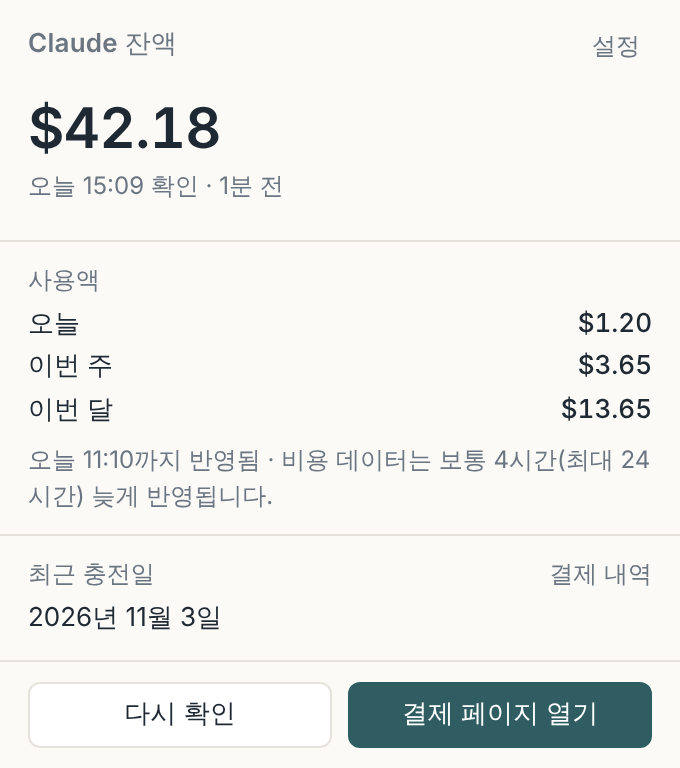
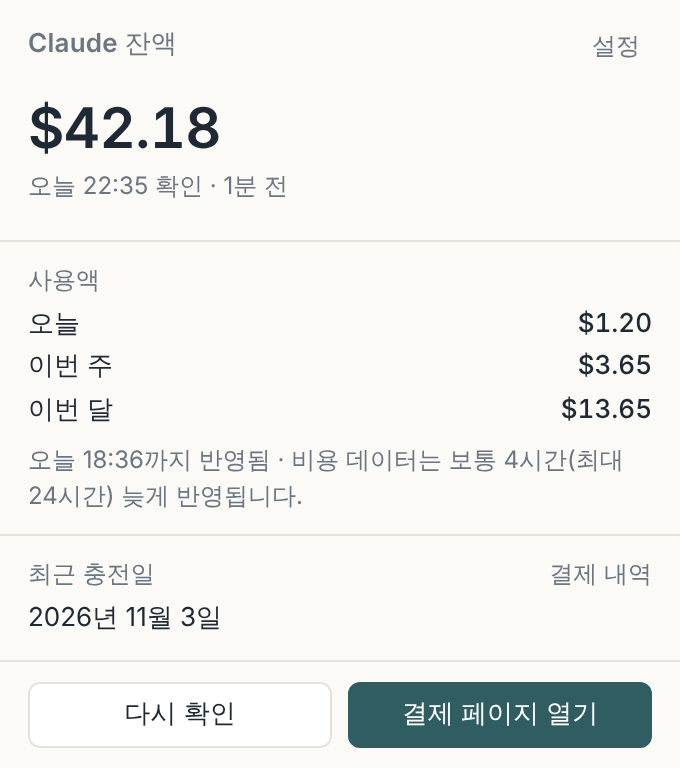
설치 : sk-ant-usr… 개인 API 키도 받기
새로 만드는 개인 키(사람에게 연결된 키)는 sk-ant-usr… 로 시작하는데,
설치 프로그램이 sk-ant-api… 만 받아서 올바른 키를 "형식 오류"로 막았다.
- sk-ant- 로 시작하면 받고 실제 확인은 서버 응답으로 (관리자 키 · Claude Code 로그인 토큰은 따로 안내)
- 키 확인에 실패하면 서버가 돌려준 이유(HTTP 코드 · 오류 문구, 키는 포함 안 됨)를 함께 표시
- 안내서 · 그림 · 체크리스트 · 대화형 모의 실행을 같은 기준으로 고침

Claude-Session: https://claude.ai/code/session_011zPEEYtSUEqYvxahC6vfrR

Changed region(s): [[0.0309, 0.5625, 0.9574, 0.6562], [0.1235, 0.2188, 0.4324, 0.25]]

diff --git a/manual/index.html b/manual/index.html
@@ -434,7 +434,7 @@
           <li><span class="en">Name</span>(이름) 칸에 <strong>OpenCode</strong> 라고 쓰세요.</li>
           <li><span class="en">Workspace</span> 를 고르는 칸이 있으면 <span class="btn-name">Default</span> 를 고르세요.</li>
           <li><span class="btn-name">Add</span> 버튼을 누르세요.</li>
-          <li><strong>sk-ant-api</strong> 로 시작하는 긴 키가 나오면 옆의 <span class="btn-name">Copy</span> 를 누르세요.</li>
+          <li><strong>sk-ant-</strong> 로 시작하는 긴 키(예 : sk-ant-usr…)가 나오면 옆의 <span class="btn-name">Copy</span> 를 누르세요.</li>
           <li>터미널 창을 한 번 누르고 <span class="key">⌘</span> + <span class="key">V</span> → <span class="key">return</span></li>
         </ol>
         <div class="warn">
@@ -617,7 +617,7 @@
       <details>
         <summary>「키 오류」가 나와요</summary>
         <p>키를 끝까지 복사하지 않았거나 지워진 키예요. 콘솔에서 <span class="btn-name">Create key</span> 로 새 키를 만들어 다시 붙여 넣으세요.</p>
-        <p>「관리자 키는 크롬 확장 설정에 넣는 키」라고 나오면 <strong>sk-ant-admin</strong> 키를 넣은 거예요. 설치에는 <strong>sk-ant-api</strong> 키를 넣으세요.</p>
+        <p>「관리자 키는 크롬 확장 설정에 넣는 키」라고 나오면 <strong>sk-ant-admin</strong> 키를 넣은 거예요. 설치에는 「API keys」 화면에서 만든 키(<strong>sk-ant-usr…</strong> 또는 <strong>sk-ant-api…</strong>)를 넣으세요.</p>
       </details>
       <details>
         <summary>「작업 공간(Workspace)이 정해지지 않은 키」라고 나와요</summary>

diff --git a/tools/make-manual-images.js b/tools/make-manual-images.js
@@ -278,7 +278,7 @@ async function drawings(browser) {
     '   ③ 이름(Name) 칸에 OpenCode 라고 쓰세요.',
     '   ④ Workspace 를 고르는 칸이 있으면 「Default」 를 고르세요.',
     '   ⑤ 「Add」 버튼을 누르세요.',
-    '   ⑥ sk-ant-api 로 시작하는 키가 나오면 옆의 「Copy」 를 누르세요.',
+    '   ⑥ sk-ant- 로 시작하는 긴 키가 나오면 옆의 「Copy」 를 누르세요.',
     '   ⑦ 이 터미널 창을 한 번 누르고 ⌘V(붙여넣기) → 엔터',
     { c: 'dim', t: '      붙여 넣어도 화면에 아무것도 안 보이는 게 정상이에요(비밀번호처럼 숨겨져요).' },
     '',

diff --git a/tests/sim/interactive-sim.py b/tests/sim/interactive-sim.py
@@ -23,6 +23,7 @@ import time
 ROOT = os.path.abspath(os.path.join(os.path.dirname(__file__), "..", ".."))
 STUBS = os.path.join(ROOT, "tests", "sim", "stubs")
 FAKE_KEY = "sk-ant-" + "api03-" + "Z" * 40  # 실제 키 아님 (서버가 401 을 돌려줌)
+FAKE_USR_KEY = "sk-ant-" + "usr01-" + "Y" * 40  # 개인 키 모양(가짜)
 ENTER = "엔터"
 
 
@@ -107,7 +108,7 @@ def main():
         home = make_home(tmp, "wrongkey")
         code, out, sent = run(home, [
             ("준비되면 엔터", "\n", None),
-            ("API 키 :", FAKE_KEY + "\n", None),
+            ("API 키 :", FAKE_USR_KEY + "\n", None),
             ("API 키 :", "hello\n", None),
             ("API 키 :", "sk-ant-" + "admin01-" + "Q" * 30 + "\n", None),
         ])
@@ -115,11 +116,12 @@ def main():
         checks += [
             ("1) 네 번 모두 입력 받음", sent == 4),
             ("1) API 키 만드는 법 안내(Create key)", "Create key" in out),
-            ("1) 실제 서버 401 → 키 오류 안내", "키 오류" in out),
-            ("1) 형식 오류 안내", "sk-ant-api 로 시작" in out),
+            ("1) sk-ant-usr 개인 키도 받아서 실제 서버에 확인 → 401 키 오류 안내", "키 오류" in out),
+            ("1) 서버가 돌려준 이유 표시", "서버 응답 : HTTP 401" in out),
+            ("1) 형식 오류 안내", "sk-ant- 로 시작" in out),
             ("1) 관리자 키를 넣으면 안내", "관리자 키(sk-ant-admin…)" in out),
             ("1) 3번 실패 후 멈춤", "3번 실패" in out and code != 0),
-            ("1) 화면에 키가 보이지 않음", FAKE_KEY not in out),
+            ("1) 화면에 키가 보이지 않음", FAKE_USR_KEY not in out),
         ]
 
         # 2) 처음 설치 — 안내를 따라 끝까지

diff --git a/manual/맥테스트체크리스트.md b/manual/맥테스트체크리스트.md
@@ -17,7 +17,7 @@
 | A1 | 웹 안내서(kongsak-kr.github.io/claude-balance-kit)의 **복사하기** → 터미널에 붙여 넣기 | 「설치를 시작합니다」 안내 + 「준비되면 엔터」 | | | |
 | A2 | 엔터 | `[1/7]` 칩 종류가 맞게 나오고 「구글 크롬이 있어요」 | | | |
 | A3 | 키 단계 | 크롬에 API keys 화면이 저절로 열림, 터미널에 ①~⑦ 안내 | | | |
-| A4 | 일부러 아무 글자 입력 | 「sk-ant-api 로 시작」 안내 후 다시 입력 | | | |
+| A4 | 일부러 아무 글자 입력 | 「sk-ant- 로 시작」 안내 후 다시 입력 | | | |
 | A5 | 올바른 API 키 붙여 넣기 | 입력이 화면에 안 보임, 「키가 확인되었습니다」 | | | |
 | A6 | (선택) Workspace 를 안 고른 키 | 「작업 공간(Workspace)이 정해지지 않은 키」 안내 | | | |
 | A7 | OpenCode 설치 | 점(.)이 찍히다가 「설치 완료」, 영어 안내 문구가 화면에 안 나옴 | | | |
@@ -32,7 +32,7 @@
 | A16 | 새 터미널 창에서 `opencode --version` | 2.x 버전 숫자 | | | |
 | A17 | 새 터미널 창에서 `opencode auth list` | Anthropic · claude-balance-kit · stored | | | |
 | A18 | `opencode run "1+1은?"` | Claude 답이 나옴(키가 실제로 쓰임) | | | |
-| A19 | 셸 기록에 키가 없는지 : `grep -c "sk-ant-api" ~/.zsh_history` | 0 (파일이 없다는 오류도 정상) | | | |
+| A19 | 셸 기록에 키가 없는지 : `grep -c "sk-ant-" ~/.zsh_history` | 0 (파일이 없다는 오류도 정상) | | | |
 | A20 | 바탕화면 「OpenCode 열기」 두 번 누르기 | 크롬에 OpenCode 웹 화면이 열림 | | | |
 | A21 | 맥 재시동(또는 로그아웃 → 로그인) 후 `opencode service status` | `http://127.0.0.1:…` 주소가 나옴(자동 실행됨) | | | |
 

diff --git a/docs/확인사항.md b/docs/확인사항.md
@@ -93,7 +93,8 @@
   - 402 `billing_error` → 결제·잔액 문제
   - 400 + "not scoped to a workspace" → 작업 공간을 지정하지 않은 개인 키 (https://platform.claude.com/docs/en/manage-claude/authentication)
   - 429 / 500 / 529 → 일시적 문제, 연결 실패(HTTP 000) → 인터넷 문제
-- 키 헤더 : 표준은 `Authorization: Bearer`, `x-api-key` 는 구형이지만 계속 지원(같은 문서)
+- 키 헤더 : 표준은 `Authorization: Bearer`, `x-api-key` 는 구형이지만 계속 지원(같은 문서). OpenCode 2.x 도 `x-api-key` 로 보낸다(소스 `packages/ai/src/providers/anthropic.ts`) → 키 확인도 같은 방식
+- 키 접두어 : 문서는 "`sk-ant-` 로 시작"이라고만 한다. 예전(작업 공간) 키는 `sk-ant-api…`, **사람에게 연결된 개인 키는 `sk-ant-usr…`** (2026-11-19 사용자가 실제로 받은 키로 확인). 설치 프로그램은 `sk-ant-` 로 시작하면 받고(관리자 키 `sk-ant-admin…`, Claude Code 로그인 토큰 `sk-ant-oat…` 은 따로 안내), 실제 확인은 서버 응답으로 한다
 - API 키 만드는 곳 : `platform.claude.com/settings/keys` → **Create key** → 이름 · 만료 · Linked account · (Workspace) → 한 번만 보이는 키 복사
   - 출처 : https://platform.claude.com/docs/en/get-api-key
 - **미확인** : 잔액이 0 일 때 `/v1/models` 가 402 를 주는지(목록 조회는 과금이 없어 200 일 가능성이 큼). 이 경우 설치 때는 "잔액 없음"을 알 수 없고, 확장의 잔액 표시로 확인한다
